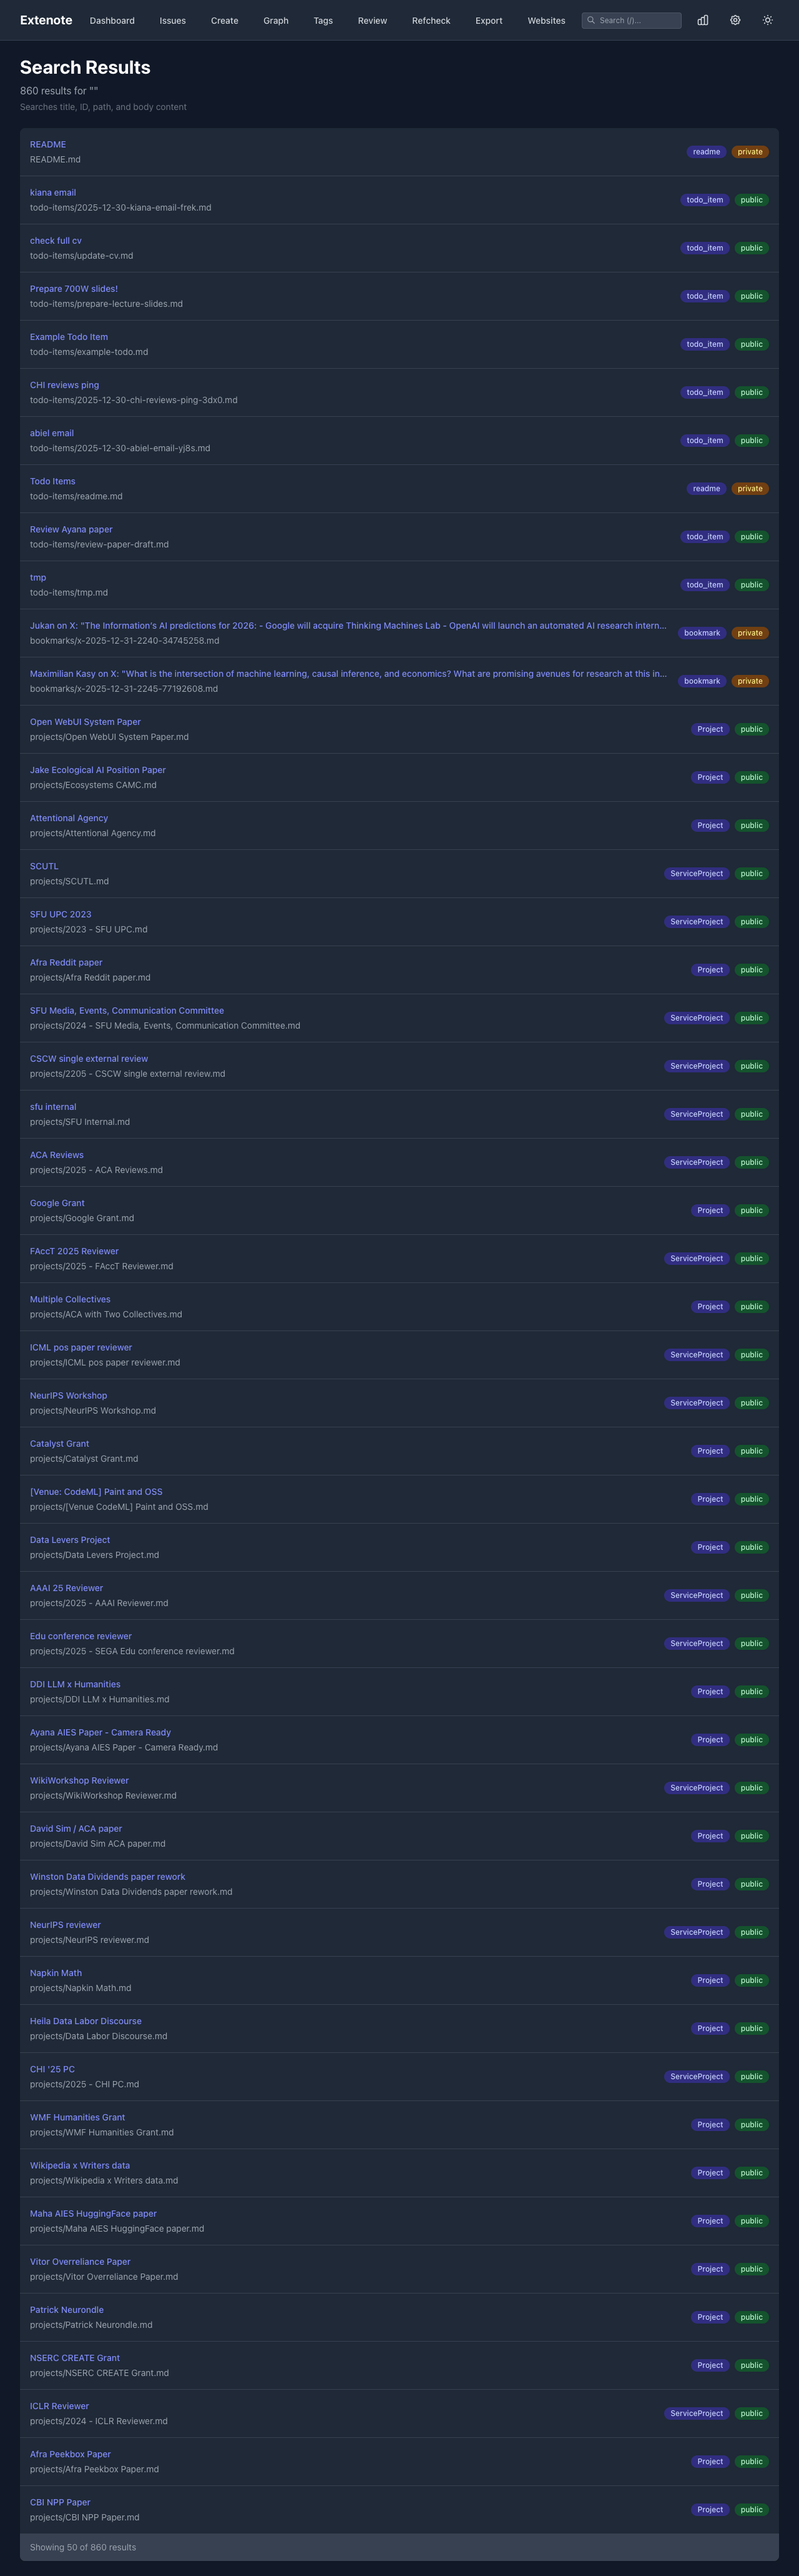
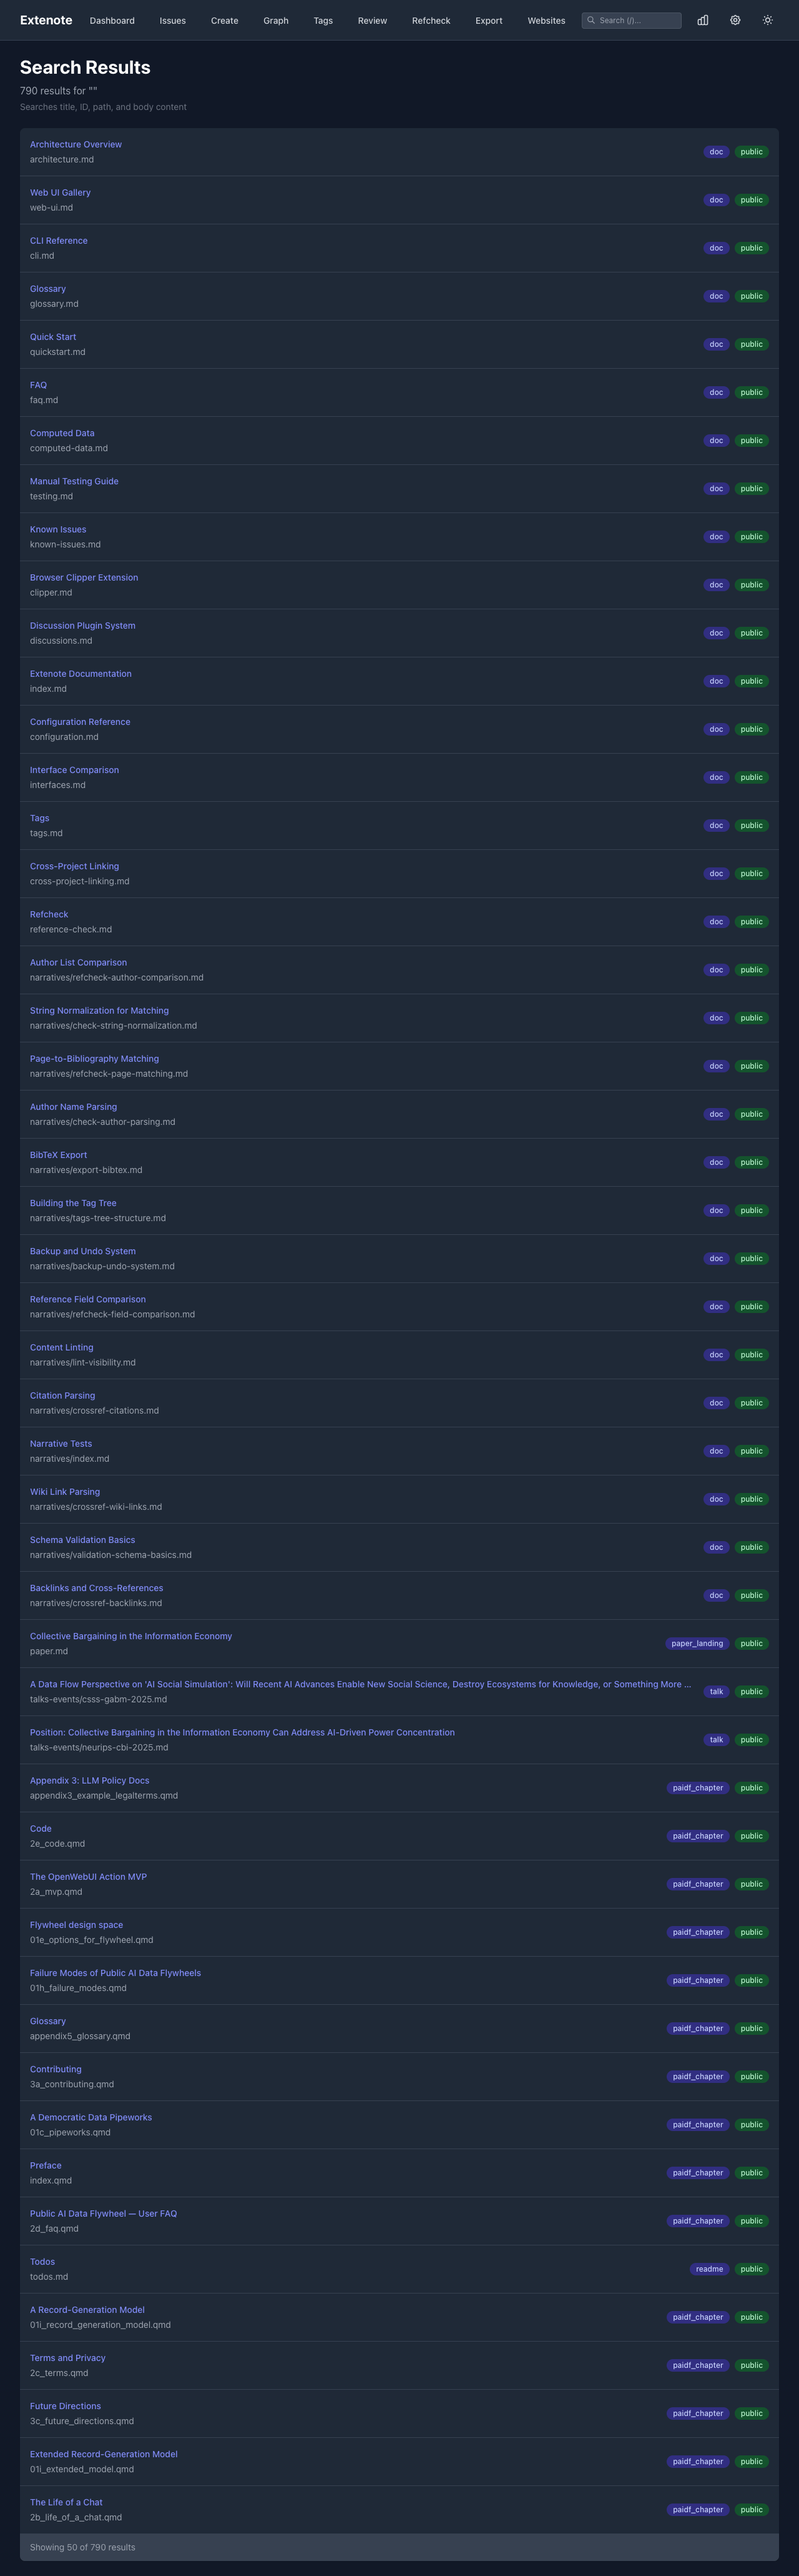
fix: regenerate screenshots with PUBLIC_ONLY mode
- Update generate-screenshots.ts to use 'extenote' directory by default
- Screenshots now filter out private content to avoid leaking info

🤖 Generated with [Claude Code](https://claude.com/claude-code)

diff --git a/websites/extenote-docs-astro/scripts/generate-screenshots.ts b/websites/extenote-docs-astro/scripts/generate-screenshots.ts
@@ -18,7 +18,8 @@ import { fileURLToPath } from "url";
 
 const __dirname = dirname(fileURLToPath(import.meta.url));
 const DOCS_ROOT = join(__dirname, "..");
-const EXTENOTE_ROOT = join(DOCS_ROOT, "..", "..", "..", "extenote");
+// Use EXTENOTE_DIR env var to override, defaults to "extenote"
+const EXTENOTE_ROOT = join(DOCS_ROOT, "..", "..", "..", process.env.EXTENOTE_DIR || "extenote");
 const SCREENSHOTS_SRC = join(EXTENOTE_ROOT, "packages", "web", "tests", "screenshots");
 const SCREENSHOTS_DEST = join(DOCS_ROOT, "public", "screenshots");
 
@@ -53,13 +54,17 @@ async function main() {
     return;
   }
 
-  // Start web server
-  console.log("🚀 Starting web server...");
+  // Start web server with PUBLIC_ONLY mode to exclude private content
+  console.log("🚀 Starting web server (PUBLIC_ONLY mode)...");
   const serverProc = spawn({
     cmd: ["bun", "run", "web"],
     cwd: EXTENOTE_ROOT,
     stdout: "ignore",
     stderr: "ignore",
+    env: {
+      ...process.env,
+      EXTENOTE_PUBLIC_ONLY: "true",
+    },
   });
 
   try {
